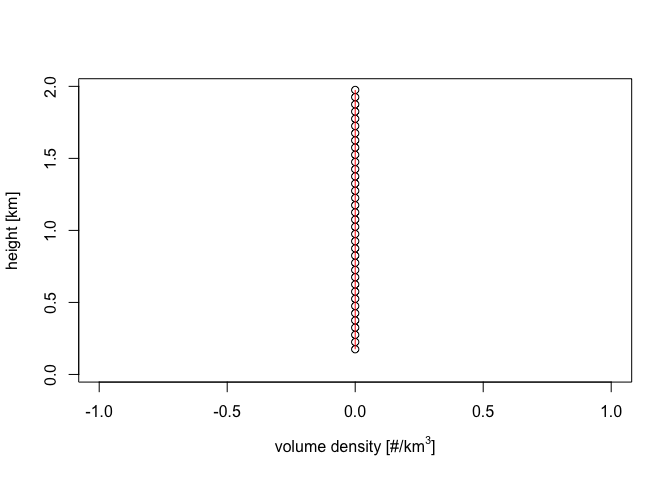
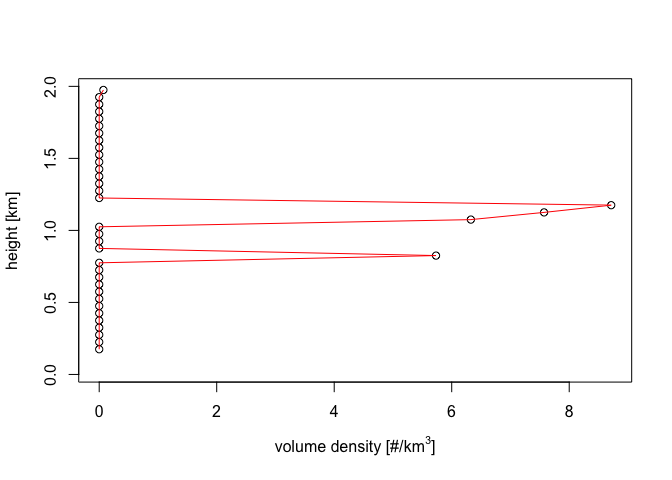
forgot to run the readme

diff --git a/README.md b/README.md
@@ -45,10 +45,8 @@ Download a polar volume, and then plot it using `bioRad`:
 ``` r
 library(getRad)
 library(bioRad)
-#> Welcome to bioRad version 0.9.1.9000
-#> using vol2birdR version 1.0.5 (MistNet not installed)
-# Plot insect movements in Finland (Mäkinen et al. 2022)
-pvol <- get_pvol("fianj", as.POSIXct("2012-5-17 14:15", tz = "UTC"))
+# Plot daytime insect movements in Finland (Mäkinen et al. 2022)
+pvol <- get_pvol("fianj", as.POSIXct("2012-05-17 14:00", tz = "UTC"))
 plot(project_as_ppi(get_scan(pvol, 0), range_max = 75000))
 ```
 
@@ -68,23 +66,50 @@ plot(calculate_vp(pvol, h_layer = 50, n_layer = 40))
 
 <img src="man/figures/README-example-2.png" width="100%" />
 
+``` r
+
+# Plot nocturnal migration in Finland
+pvol <- get_pvol("fianj", as.POSIXct("2012-05-11 23:00", tz = "UTC"))
+plot(project_as_ppi(get_scan(pvol, 0), range_max = 75000))
+```
+
+<img src="man/figures/README-example-3.png" width="100%" />
+
+``` r
+plot(calculate_vp(pvol, h_layer = 50, n_layer = 40))
+#> Running vol2birdSetUp
+#> Warning: correlation coefficient missing, dropping scan 4 ...
+#> Warning: correlation coefficient missing, dropping scan 7 ...
+#> Warning: correlation coefficient missing, dropping scan 9 ...
+#> Warning: correlation coefficient missing, dropping scan 10 ...
+#> Warning: correlation coefficient missing, dropping scan 11 ...
+#> Warning: correlation coefficient missing, dropping scan 12 ...
+#> Warning: radial velocities will be dealiased...
+```
+
+<img src="man/figures/README-example-4.png" width="100%" />
+
 Download a vertical profile time series from the [Aloft
 bucket](https://aloftdata.eu/browse/):
 
 ``` r
+
+# Plot VPTS data for two radars
 vpts_list <- get_vpts(
-  radar = c("bewid", "deess"),
+  radar = c("bejab", "deess"),
   datetime = lubridate::interval(
-    lubridate::as_datetime("2016-10-03 16:00:00"), 
-    lubridate::as_datetime("2016-10-05 10:00:00")
+    lubridate::as_datetime("2021-10-03 16:00:00"), 
+    lubridate::as_datetime("2021-10-05 10:00:00")
   ),
-  source = "ecog-04003"
+  source = "baltrad"
 )
 par(mfrow = 2:1)
 for(i in names(vpts_list))
   plot(regularize_vpts(vpts_list[[i]]), main = i)
-#> projecting on 300 seconds interval grid...
-#> projecting on 900 seconds interval grid...
+#> Warning in regularize_vpts(vpts_list[[i]]): Dropped 337 profiles with duplicate
+#> datetime values
+#> Warning in regularize_vpts(vpts_list[[i]]): Dropped 338 profiles with duplicate
+#> datetime values
 ```
 
 <img src="man/figures/README-vpts-1.png" width="100%" />
